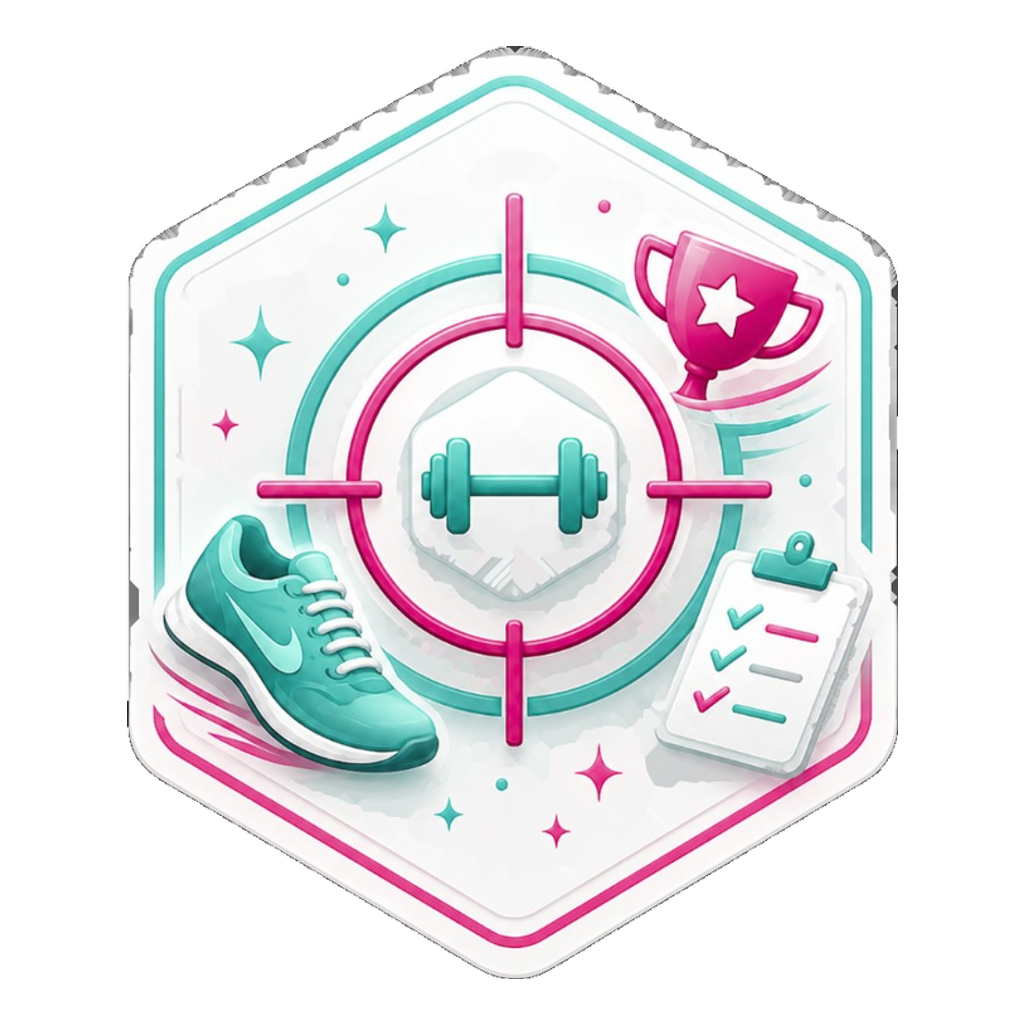
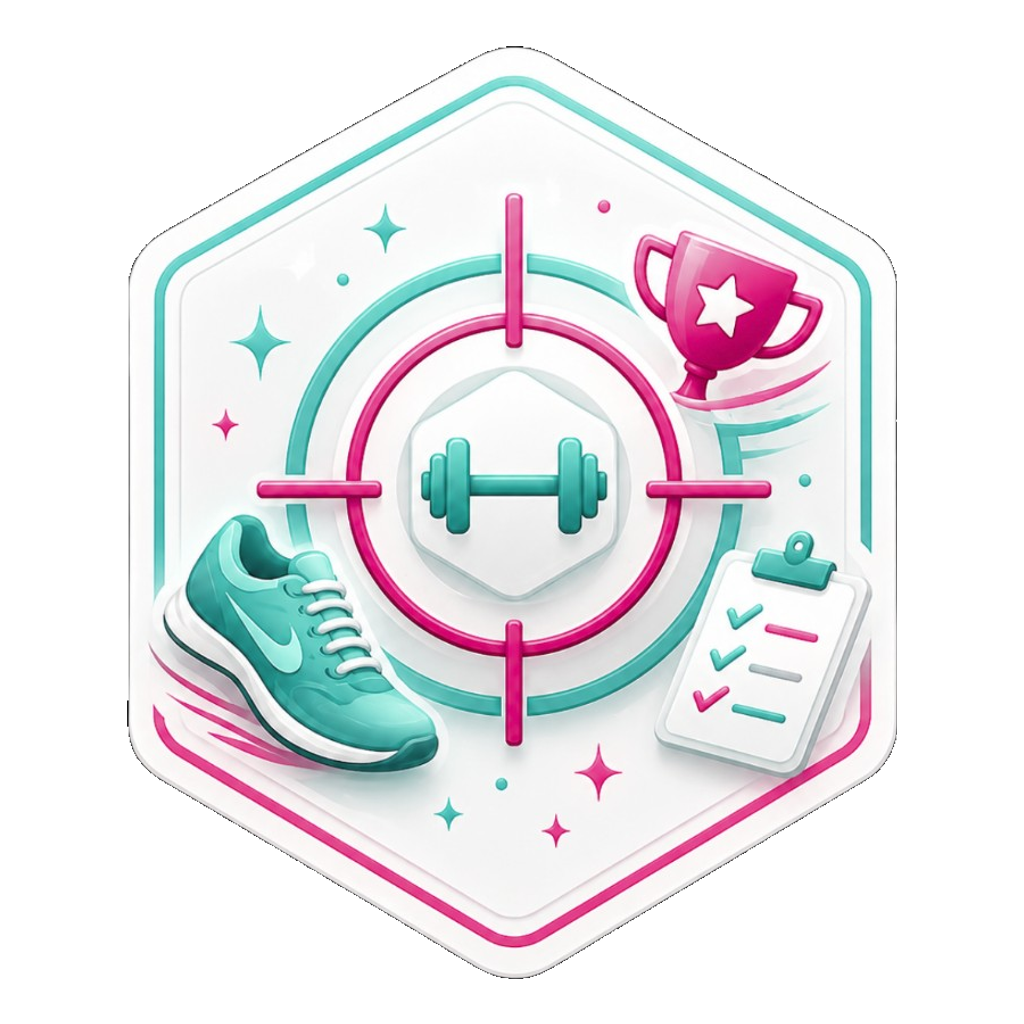
Fix Øktjeger hex edge transparency
Re-export with black-edge-only stripping so white hex border is preserved.

diff --git a/src/app/badgeAssets.ts b/src/app/badgeAssets.ts
@@ -1,5 +1,5 @@
 /** Felles badge-bilder (PNG 1024×1024, normalisert visuell størrelse). */
-export const BADGE_ASSET_VERSION = "24";
+export const BADGE_ASSET_VERSION = "25";
 
 export function badgeAssetUrl(path: string): string {
   const base = path.split("?")[0] || path;
